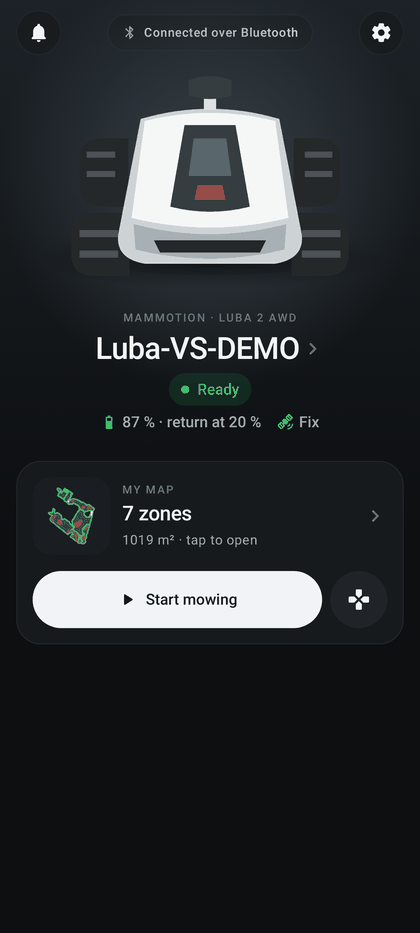
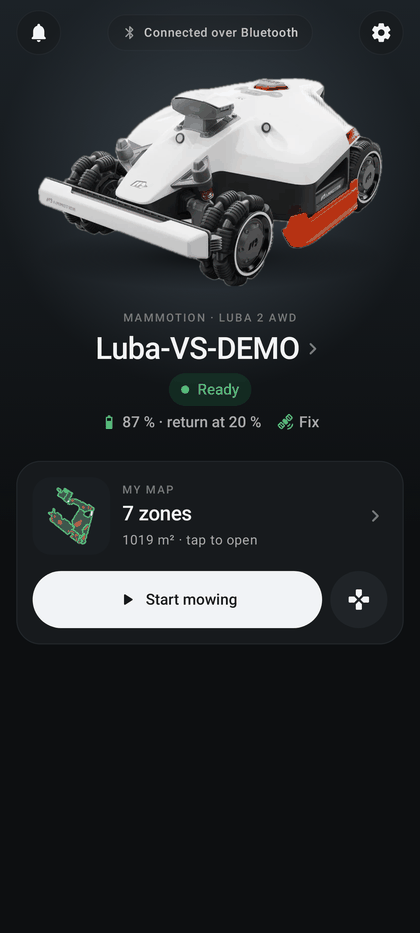
Real robot photos back in the app and the screenshots (1.0.1)

Changed region(s): [[0.0929, 0.0622, 0.9286, 0.3108], [0.1238, 0.5284, 0.2167, 0.5906]]

diff --git a/app/src/test/java/fr/luba/poc/ui/RobotModelImageTest.kt b/app/src/test/java/fr/luba/poc/ui/RobotModelImageTest.kt
@@ -10,7 +10,7 @@ import org.junit.runner.RunWith
 import org.robolectric.RobolectricTestRunner
 import org.robolectric.annotation.Config
 
-/** Product photos looked up by name: present in this repository, absent from the public repository (illustration). */
+/** Product photos looked up by name; kept in the app and the publication until a removal request (RULES.md). */
 @RunWith(RobolectricTestRunner::class)
 @Config(sdk = [35])
 class RobotModelImageTest {
@@ -24,10 +24,9 @@ class RobotModelImageTest {
     @Test fun providedPhotoIsFoundByName() {
         val photos = RobotModel.entries.filter { it.named }
             .map { it.image(context) }.filter { it != R.drawable.robot_illustration }
-        // Each provided photo is distinct; without photos (public repository), all fall back to the illustration.
+        // Every named model has its own photo: the real images stay until a removal request.
+        assertEquals(RobotModel.entries.count { it.named }, photos.size)
         assertEquals(photos.size, photos.toSet().size)
-        val available = context.resources.getIdentifier("robot_photo_luba2", "drawable", context.packageName)
-        if (available != 0) assertNotEquals(R.drawable.robot_illustration, RobotModel.LUBA_2.image(context))
-        else assertEquals(R.drawable.robot_illustration, RobotModel.LUBA_2.image(context))
+        assertNotEquals(R.drawable.robot_illustration, RobotModel.LUBA_2.image(context))
     }
 }

diff --git a/app/src/main/java/fr/luba/poc/ui/RobotModel.kt b/app/src/main/java/fr/luba/poc/ui/RobotModel.kt
@@ -33,8 +33,8 @@ enum class RobotModel(val label: String, private val photoName: String? = null) 
 
     /**
      * Product photo of the model if provided, otherwise the project illustration. Mammotion photos
-     * (`robot_photo_*.webp`) are not redistributed in the public repository (see THIRD_PARTY.md): they are therefore
-     * looked up by name, and their absence falls back to the illustration instead of breaking the build.
+     * (`robot_photo_*.webp`, Mammotion property, see THIRD_PARTY.md) are looked up by name, so that removing them on
+     * request falls back to the illustration instead of breaking the build.
      */
     @SuppressLint("DiscouragedApi")
     @DrawableRes

diff --git a/THIRD_PARTY.md b/THIRD_PARTY.md
@@ -29,7 +29,7 @@ No video SDK is incorporated in the APK. The camera (Service → **Camera**, and
 
 `app/src/main/res/drawable/robot_illustration.xml`: original vector drawing by the project (GPL-3.0), shown when the model is unknown.
 
-`app/src/main/res/drawable/robot_photo_*.webp`: Mammotion product photos (official stores us/de/fr.mammotion.com; 1st-generation LUBA AWD: product page of the reseller heyupnow.com), cut out and downscaled for the home screen. These images remain the property of Mammotion and are not covered by the project's GPL-3.0: they are not redistributed in the public repository. The app looks them up by name (`RobotModel.image`) and shows the project's illustration when they are missing; the detected model is still named. Table of model prefixes and product keys: `pymammotion/utility/device_type.py` (PyMammotion, GPL-3.0). "Mammotion" and "LUBA" are trademarks of their respective owners, mentioned only to indicate compatibility; this project is neither affiliated with nor endorsed by Mammotion.
+`app/src/main/res/drawable/robot_photo_*.webp`: Mammotion product photos (official stores us/de/fr.mammotion.com; 1st-generation LUBA AWD: product page of the reseller heyupnow.com), cut out and downscaled for the home screen. These images remain the property of Mammotion and are not covered by the project's GPL-3.0; they are included only to show the detected model, and will be removed on request of the rights holder. The app looks them up by name (`RobotModel.image`) and shows the project's illustration when they are missing; the detected model is still named. Table of model prefixes and product keys: `pymammotion/utility/device_type.py` (PyMammotion, GPL-3.0). "Mammotion" and "LUBA" are trademarks of their respective owners, mentioned only to indicate compatibility; this project is neither affiliated with nor endorsed by Mammotion.
 
 ## Weather data (rain check)
 

diff --git a/docs/features/interface.md b/docs/features/interface.md
@@ -40,9 +40,9 @@ another language is chosen in Me → Language ([language](#language)).
   → mini 2, any other `Luba…` name → LUBA 1) or, failing that, from the product key of the Mammotion account; the
   same photo appears at the top of the Service tab with the model name. Newer Luba models with no established trade
   name (`Luba-HM`, `MH`, `ME`, `TR`, `SP`) and the absence of a robot keep the generic illustration. Table:
-  `ui/RobotModel.kt`, based on PyMammotion's `DeviceType`. Mammotion product photos are not part of the public
-  repository ([THIRD_PARTY.md](../../THIRD_PARTY.md#robot-image)): without them, the illustration replaces the
-  photo and the model name is still shown.
+  `ui/RobotModel.kt`, based on PyMammotion's `DeviceType`. Mammotion product photos remain Mammotion's property
+  ([THIRD_PARTY.md](../../THIRD_PARTY.md#robot-image)): if they are removed, the illustration replaces the photo and
+  the model name is still shown.
 - **MY MAP**: map thumbnail, number of zones ("No map" without one), then "<area> m² · tap to open", "<N> % mowed ·
   tap to open" during a local route, or "Read the map from the robot or the account". The card opens the
   [map](map.md). The **Start mowing** button (or **Follow mowing** during a mission) opens the map in zone selection

diff --git a/CHANGELOG.md b/CHANGELOG.md
@@ -295,3 +295,9 @@ Version 1.0.0: **first public release** on GitHub, published as a single commit.
 (`io.github.cleborgne_pro.dumbyluba`) installs next to the builds made from source, and the release also provides
 the ESP32 gateway firmware for Wi-Fi updates, a full image for the first USB install, `release.json` and `SHA256SUMS`.
 The project is still tested on a single LUBA 2 AWD: see the project status in the README.
+
+Version 1.0.1: **real robot photos back** in the published app and the public repository. The Mammotion product
+photos of the five named models (LUBA AWD, LUBA 2 AWD, LUBA 3 AWD, LUBA mini AWD, LUBA mini 2 AWD) are shown again on
+the home screen and at the top of the Service tab of the GitHub APK, instead of the project illustration, and the
+documentation screenshots show them. They remain Mammotion's property (THIRD_PARTY.md) and stay until a removal
+request; the illustration is still used for unknown models and would replace the photos if they were removed.
